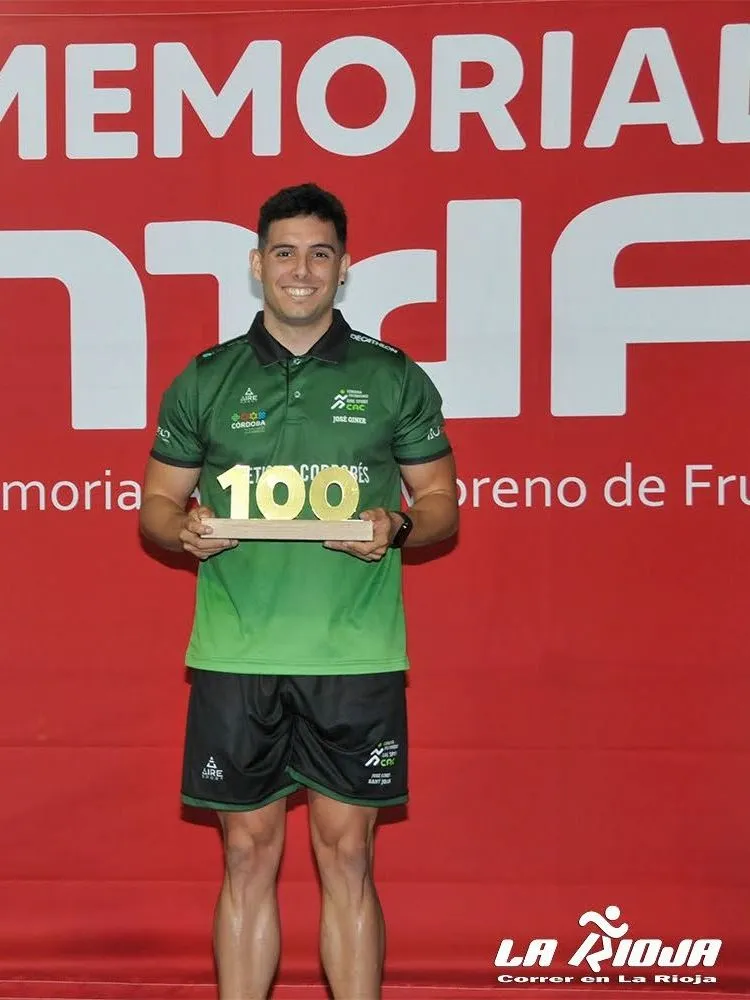
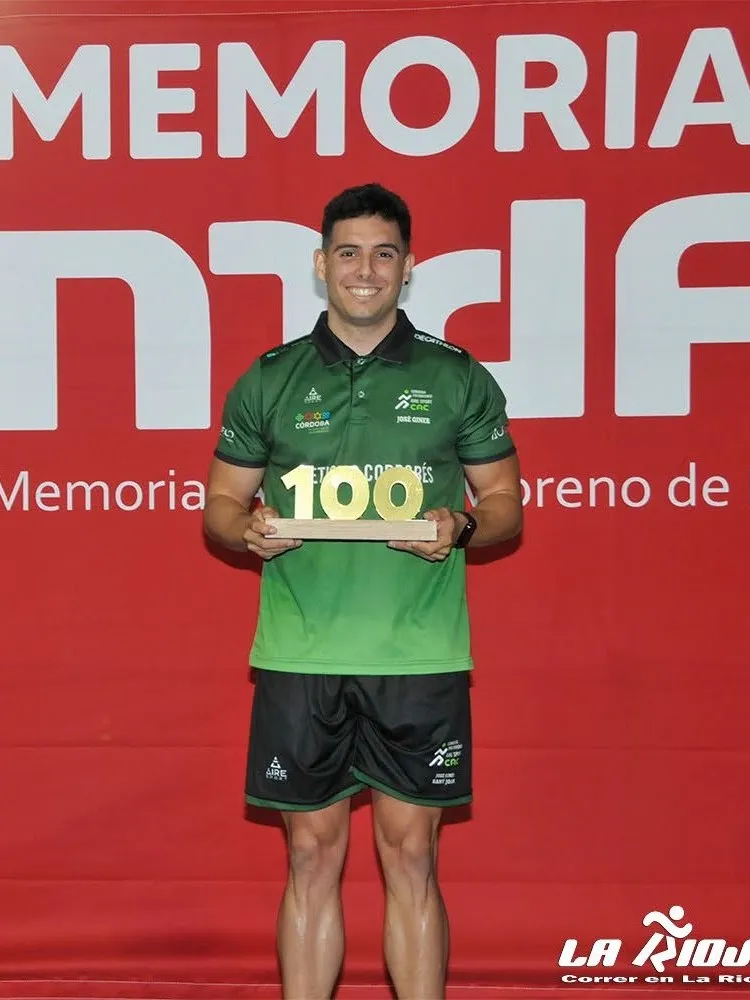
Reencuadrar 3 verticales y quitar las MP del palmarés
Fotos (recorte manual a 3:4, según feedback de JG):
- memorial-la-rioja-trofeo-100: centrado en el sujeto (estaba a la derecha).
- coria-front-face: encuadre bajado, fuera el cielo, se ven las piernas.
- universitario-autonomico-100-2022: bajado para ver los pies en vez del cielo.
Los originales sin recortar siguen en fotos-originales/sin-recortar/.

Texto:
- Se elimina del logro 2025-26 la mención a las marcas personales (10.72 y el
  40.80): JG las considera una consecuencia, no un mérito, y ya están en las
  tarjetas de "Marcas personales". "Finalista" pasa a mayúscula inicial para
  resaltarlo, como pidió.

Verificado: las 3 fotos recortadas a 0.75 y revisadas visualmente.

diff --git a/src/i18n/content.ts b/src/i18n/content.ts
@@ -334,7 +334,7 @@ export const content: Record<Lang, Content> = {
         {
           year: "2025–26",
           title: "Campeón autonómico absoluto — 100 m",
-          detail: "Campeón y subcampeón autonómico absoluto en 100 m · finalista autonómico absoluto en 200 m (aire libre y pista cubierta) · subcampeón autonómico universitario en 4 × 100 m y bronce universitario en 200 m · nueva mejor marca personal en 100 m (10.72) y 40.80 en el relevo 4 × 100 m.",
+          detail: "Campeón y subcampeón autonómico absoluto en 100 m · Finalista autonómico absoluto en 200 m (aire libre y pista cubierta) · subcampeón autonómico universitario en 4 × 100 m y bronce universitario en 200 m.",
         },
         {
           year: "2022",
@@ -593,7 +593,7 @@ export const content: Record<Lang, Content> = {
         {
           year: "2025–26",
           title: "Regional senior champion — 100 m",
-          detail: "Regional senior champion and runner-up in the 100 m · regional senior finalist in the 200 m (outdoor and indoor) · regional university runner-up in the 4 × 100 m and university bronze in the 200 m · new 100 m personal best (10.72) and 40.80 in the 4 × 100 m relay.",
+          detail: "Regional senior champion and runner-up in the 100 m · Finalist in the regional senior 200 m (outdoor and indoor) · regional university runner-up in the 4 × 100 m and university bronze in the 200 m.",
         },
         {
           year: "2022",
